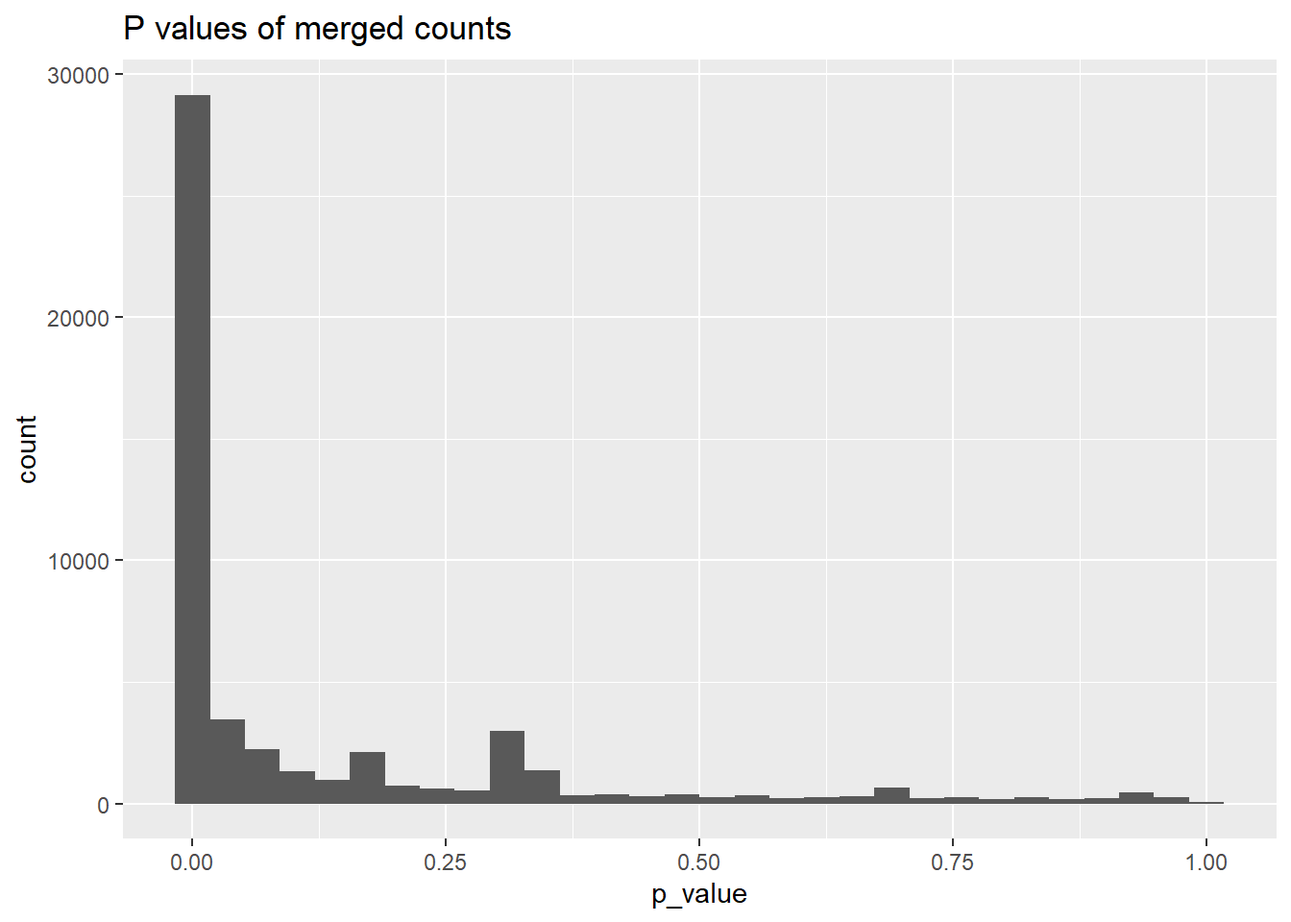
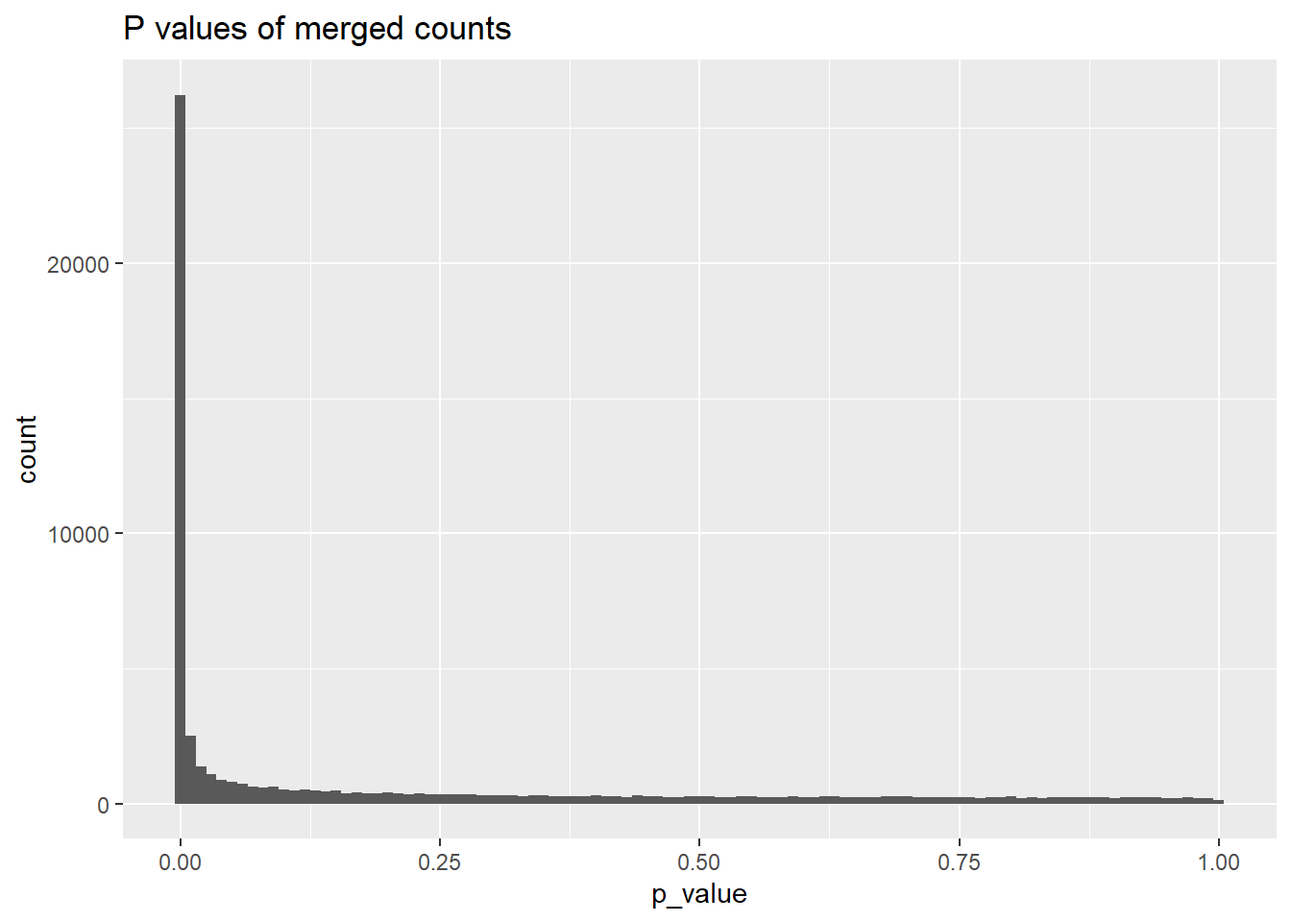
Built site for gh-pages

diff --git a/final.html b/final.html
@@ -108,8 +108,6 @@ pre > code.sourceCode > span > a:first-child::before { text-decoration: underlin
 <section id="running-code" class="level2">
 <h2 class="anchored" data-anchor-id="running-code">Running Code</h2>
 <p>When you click the <strong>Render</strong> button a document will be generated that includes both content and the output of embedded code. You can embed code like this:</p>
-<p>normal_counts &lt;- read_csv(“data/count_normal_comb_output.csv”) |&gt;</p>
-<p>pivot_longer(!GeneId, names_to = “SampleId”, values_to = “count”)</p>
 <div class="cell">
 <div class="sourceCode cell-code" id="cb1"><pre class="sourceCode r code-with-copy"><code class="sourceCode r"><span id="cb1-1"><a href="#cb1-1" aria-hidden="true" tabindex="-1"></a><span class="fu">library</span>(readr)</span>
 <span id="cb1-2"><a href="#cb1-2" aria-hidden="true" tabindex="-1"></a><span class="fu">library</span>(tidyverse)</span></code><button title="Copy to Clipboard" class="code-copy-button"><i class="bi"></i></button></pre></div>
@@ -128,7 +126,7 @@ pre > code.sourceCode > span > a:first-child::before { text-decoration: underlin
 <span id="cb3-2"><a href="#cb3-2" aria-hidden="true" tabindex="-1"></a></span>
 <span id="cb3-3"><a href="#cb3-3" aria-hidden="true" tabindex="-1"></a>normal_counts <span class="ot">&lt;-</span> <span class="fu">read_csv</span>(<span class="st">"data/count_normal_comb_output.csv"</span>) <span class="sc">|&gt;</span></span>
 <span id="cb3-4"><a href="#cb3-4" aria-hidden="true" tabindex="-1"></a>  <span class="fu">pivot_longer</span>(<span class="sc">!</span>GeneId, <span class="at">names_to =</span> <span class="st">"SampleId"</span>, <span class="at">values_to =</span> <span class="st">"count"</span>) <span class="sc">|&gt;</span></span>
-<span id="cb3-5"><a href="#cb3-5" aria-hidden="true" tabindex="-1"></a><span class="fu">mutate</span>(<span class="at">type =</span> <span class="st">"normal"</span>)</span></code><button title="Copy to Clipboard" class="code-copy-button"><i class="bi"></i></button></pre></div>
+<span id="cb3-5"><a href="#cb3-5" aria-hidden="true" tabindex="-1"></a>  <span class="fu">mutate</span>(<span class="at">type =</span> <span class="st">"normal"</span>, <span class="at">count =</span> count <span class="sc">+</span> <span class="fu">runif</span>(<span class="at">n =</span> <span class="fu">n</span>()))</span></code><button title="Copy to Clipboard" class="code-copy-button"><i class="bi"></i></button></pre></div>
 <div class="cell-output cell-output-stderr">
 <pre><code>Rows: 60664 Columns: 36
 ── Column specification ────────────────────────────────────────────────────────
@@ -141,7 +139,7 @@ dbl (35): Normal1, Normal2, Normal3, Normal4, Normal5, Normal6, Normal7, Nor...
 </div>
 <div class="sourceCode cell-code" id="cb5"><pre class="sourceCode r code-with-copy"><code class="sourceCode r"><span id="cb5-1"><a href="#cb5-1" aria-hidden="true" tabindex="-1"></a>cancer_counts <span class="ot">&lt;-</span> <span class="fu">read_csv</span>(<span class="st">"data/count_lncap_comb_output.csv"</span>) <span class="sc">|&gt;</span></span>
 <span id="cb5-2"><a href="#cb5-2" aria-hidden="true" tabindex="-1"></a>  <span class="fu">pivot_longer</span>(<span class="sc">!</span>GeneId, <span class="at">names_to =</span> <span class="st">"SampleId"</span>, <span class="at">values_to =</span> <span class="st">"count"</span>) <span class="sc">|&gt;</span></span>
-<span id="cb5-3"><a href="#cb5-3" aria-hidden="true" tabindex="-1"></a>  <span class="fu">mutate</span>(<span class="at">type =</span> <span class="st">"cancer"</span>)</span></code><button title="Copy to Clipboard" class="code-copy-button"><i class="bi"></i></button></pre></div>
+<span id="cb5-3"><a href="#cb5-3" aria-hidden="true" tabindex="-1"></a>  <span class="fu">mutate</span>(<span class="at">type =</span> <span class="st">"cancer"</span>, <span class="at">count =</span> count <span class="sc">+</span> <span class="fu">runif</span>(<span class="at">n =</span> <span class="fu">n</span>()))</span></code><button title="Copy to Clipboard" class="code-copy-button"><i class="bi"></i></button></pre></div>
 <div class="cell-output cell-output-stderr">
 <pre><code>Rows: 60664 Columns: 20
 ── Column specification ────────────────────────────────────────────────────────
@@ -153,12 +151,20 @@ dbl (19): SRR1, SRR2, SRR3, SRR4, SRR5, SRR6, SRR7, SRR8, SRR9, SRR10, SRR11...
 ℹ Specify the column types or set `show_col_types = FALSE` to quiet this message.</code></pre>
 </div>
 </div>
-<p>You can add options to executable code like this</p>
+<p>In the first part, we imported the cancer and normal counts on each genes. We added a pseudo counts on our observations to avoid dividing by zero, this does not impact our result on a large scale because the log fold of change would be very large if a gene is unregulated/down regulated.</p>
 <div class="cell">
-<div class="sourceCode cell-code" id="cb7"><pre class="sourceCode r code-with-copy"><code class="sourceCode r"><span id="cb7-1"><a href="#cb7-1" aria-hidden="true" tabindex="-1"></a>merged_counts <span class="ot">&lt;-</span> <span class="fu">bind_rows</span>(normal_counts, cancer_counts)</span>
-<span id="cb7-2"><a href="#cb7-2" aria-hidden="true" tabindex="-1"></a>merged_count_summary <span class="ot">&lt;-</span> merged_counts <span class="sc">|&gt;</span></span>
-<span id="cb7-3"><a href="#cb7-3" aria-hidden="true" tabindex="-1"></a>  <span class="fu">group_by</span>(GeneId, type) <span class="sc">|&gt;</span></span>
-<span id="cb7-4"><a href="#cb7-4" aria-hidden="true" tabindex="-1"></a>  <span class="fu">summarise</span>(<span class="at">mean_count =</span> <span class="fu">mean</span>(count), <span class="at">standard_dev_count =</span> <span class="fu">sd</span>(count), <span class="at">min_count =</span> <span class="fu">min</span>(count), <span class="at">mx_count =</span> <span class="fu">max</span>(count))</span></code><button title="Copy to Clipboard" class="code-copy-button"><i class="bi"></i></button></pre></div>
+<div class="sourceCode cell-code" id="cb7"><pre class="sourceCode r code-with-copy"><code class="sourceCode r"><span id="cb7-1"><a href="#cb7-1" aria-hidden="true" tabindex="-1"></a>cancer_summary <span class="ot">&lt;-</span> cancer_counts <span class="sc">|&gt;</span></span>
+<span id="cb7-2"><a href="#cb7-2" aria-hidden="true" tabindex="-1"></a>  <span class="fu">group_by</span>(GeneId) <span class="sc">|&gt;</span></span>
+<span id="cb7-3"><a href="#cb7-3" aria-hidden="true" tabindex="-1"></a>  <span class="fu">summarise</span>(<span class="at">cancer_mean_count =</span> <span class="fu">mean</span>(count))</span>
+<span id="cb7-4"><a href="#cb7-4" aria-hidden="true" tabindex="-1"></a></span>
+<span id="cb7-5"><a href="#cb7-5" aria-hidden="true" tabindex="-1"></a>normal_summary <span class="ot">&lt;-</span> normal_counts <span class="sc">|&gt;</span></span>
+<span id="cb7-6"><a href="#cb7-6" aria-hidden="true" tabindex="-1"></a>  <span class="fu">group_by</span>(GeneId) <span class="sc">|&gt;</span></span>
+<span id="cb7-7"><a href="#cb7-7" aria-hidden="true" tabindex="-1"></a>  <span class="fu">summarise</span>(<span class="at">normal_mean_count =</span> <span class="fu">mean</span>(count))</span>
+<span id="cb7-8"><a href="#cb7-8" aria-hidden="true" tabindex="-1"></a></span>
+<span id="cb7-9"><a href="#cb7-9" aria-hidden="true" tabindex="-1"></a>merged_counts <span class="ot">&lt;-</span> <span class="fu">bind_rows</span>(normal_counts, cancer_counts)</span>
+<span id="cb7-10"><a href="#cb7-10" aria-hidden="true" tabindex="-1"></a>merged_count_summary <span class="ot">&lt;-</span> merged_counts <span class="sc">|&gt;</span></span>
+<span id="cb7-11"><a href="#cb7-11" aria-hidden="true" tabindex="-1"></a>  <span class="fu">group_by</span>(GeneId, type) <span class="sc">|&gt;</span></span>
+<span id="cb7-12"><a href="#cb7-12" aria-hidden="true" tabindex="-1"></a>  <span class="fu">summarise</span>(<span class="at">mean_count =</span> <span class="fu">mean</span>(count), <span class="at">standard_dev_count =</span> <span class="fu">sd</span>(count), <span class="at">min_count =</span> <span class="fu">min</span>(count), <span class="at">mx_count =</span> <span class="fu">max</span>(count))</span></code><button title="Copy to Clipboard" class="code-copy-button"><i class="bi"></i></button></pre></div>
 <div class="cell-output cell-output-stderr">
 <pre><code>`summarise()` has grouped output by 'GeneId'. You can override using the
 `.groups` argument.</code></pre>
@@ -175,17 +181,55 @@ dbl (19): SRR1, SRR2, SRR3, SRR4, SRR5, SRR6, SRR7, SRR8, SRR9, SRR10, SRR11...
 <span id="cb10-2"><a href="#cb10-2" aria-hidden="true" tabindex="-1"></a>p_values_data_frame <span class="ot">&lt;-</span> <span class="fu">data.frame</span>(<span class="at">p_value =</span> p_values)</span>
 <span id="cb10-3"><a href="#cb10-3" aria-hidden="true" tabindex="-1"></a></span>
 <span id="cb10-4"><a href="#cb10-4" aria-hidden="true" tabindex="-1"></a><span class="fu">ggplot</span>(<span class="at">data =</span> p_values_data_frame, <span class="fu">aes</span>(<span class="at">x =</span> p_value)) <span class="sc">+</span></span>
-<span id="cb10-5"><a href="#cb10-5" aria-hidden="true" tabindex="-1"></a>  <span class="fu">geom_histogram</span>(<span class="at">bins =</span> <span class="dv">30</span>) <span class="sc">+</span></span>
+<span id="cb10-5"><a href="#cb10-5" aria-hidden="true" tabindex="-1"></a>  <span class="fu">geom_histogram</span>(<span class="at">binwidth =</span> <span class="fl">0.01</span>) <span class="sc">+</span></span>
 <span id="cb10-6"><a href="#cb10-6" aria-hidden="true" tabindex="-1"></a>  <span class="fu">labs</span>(</span>
 <span id="cb10-7"><a href="#cb10-7" aria-hidden="true" tabindex="-1"></a>    <span class="at">title =</span> <span class="st">"P values of merged counts"</span>,</span>
 <span id="cb10-8"><a href="#cb10-8" aria-hidden="true" tabindex="-1"></a>    <span class="at">x =</span> <span class="st">"p_value"</span></span>
 <span id="cb10-9"><a href="#cb10-9" aria-hidden="true" tabindex="-1"></a>    )</span></code><button title="Copy to Clipboard" class="code-copy-button"><i class="bi"></i></button></pre></div>
-<div class="cell-output cell-output-stderr">
-<pre><code>Warning: Removed 9662 rows containing non-finite values (`stat_bin()`).</code></pre>
-</div>
 <div class="cell-output-display">
 <p><img src="final_files/figure-html/pval-1.png" class="img-fluid" width="672"></p>
 </div>
+</div>
+<div class="cell">
+<div class="sourceCode cell-code" id="cb11"><pre class="sourceCode r code-with-copy"><code class="sourceCode r"><span id="cb11-1"><a href="#cb11-1" aria-hidden="true" tabindex="-1"></a>combine_counts_summary <span class="ot">&lt;-</span> cancer_summary <span class="sc">|&gt;</span></span>
+<span id="cb11-2"><a href="#cb11-2" aria-hidden="true" tabindex="-1"></a>  <span class="fu">left_join</span>(normal_summary) <span class="sc">|&gt;</span></span>
+<span id="cb11-3"><a href="#cb11-3" aria-hidden="true" tabindex="-1"></a>  <span class="fu">mutate</span>(<span class="at">log_fold_of_change =</span> <span class="fu">log10</span>(cancer_mean_count <span class="sc">/</span> normal_mean_count)) <span class="sc">|&gt;</span></span>
+<span id="cb11-4"><a href="#cb11-4" aria-hidden="true" tabindex="-1"></a>  <span class="fu">mutate</span>(<span class="at">corrected_pvals =</span> <span class="fu">p.adjust</span>(p_values, <span class="at">method=</span><span class="st">"BH"</span>)) <span class="sc">|&gt;</span></span>
+<span id="cb11-5"><a href="#cb11-5" aria-hidden="true" tabindex="-1"></a>  <span class="fu">mutate</span>(<span class="at">log_of_pvals =</span> <span class="fu">log10</span>(corrected_pvals)) <span class="sc">|&gt;</span></span>
+<span id="cb11-6"><a href="#cb11-6" aria-hidden="true" tabindex="-1"></a>  <span class="fu">mutate</span>(<span class="at">selected =</span> log_of_pvals <span class="sc">&lt;</span> <span class="sc">-</span><span class="fl">10.25</span> <span class="sc">&amp;</span> log_fold_of_change <span class="sc">&gt;</span> <span class="dv">2</span>)</span></code><button title="Copy to Clipboard" class="code-copy-button"><i class="bi"></i></button></pre></div>
+<div class="cell-output cell-output-stderr">
+<pre><code>Joining with `by = join_by(GeneId)`</code></pre>
+</div>
+<div class="sourceCode cell-code" id="cb13"><pre class="sourceCode r code-with-copy"><code class="sourceCode r"><span id="cb13-1"><a href="#cb13-1" aria-hidden="true" tabindex="-1"></a>  <span class="fu">ggplot</span>(<span class="at">data =</span> combine_counts_summary, <span class="fu">aes</span>(<span class="at">x =</span> log_fold_of_change, <span class="at">y =</span>  <span class="sc">-</span>log_of_pvals, <span class="at">color =</span> selected)) <span class="sc">+</span> <span class="fu">geom_point</span>() <span class="sc">+</span> </span>
+<span id="cb13-2"><a href="#cb13-2" aria-hidden="true" tabindex="-1"></a>  <span class="fu">geom_vline</span>(<span class="at">xintercept =</span> <span class="dv">2</span>, <span class="at">linetype =</span> <span class="st">"dashed"</span>) <span class="sc">+</span> <span class="fu">geom_hline</span>(<span class="at">yintercept =</span> <span class="fl">10.25</span>, <span class="at">linetype =</span> <span class="st">"dashed"</span>) <span class="sc">+</span></span>
+<span id="cb13-3"><a href="#cb13-3" aria-hidden="true" tabindex="-1"></a>  <span class="fu">guides</span>(<span class="at">color =</span> <span class="st">"none"</span>)</span></code><button title="Copy to Clipboard" class="code-copy-button"><i class="bi"></i></button></pre></div>
+<div class="cell-output-display">
+<p><img src="final_files/figure-html/volcano_plot-1.png" class="img-fluid" width="672"></p>
+</div>
+</div>
+<div class="cell">
+<div class="sourceCode cell-code" id="cb14"><pre class="sourceCode r code-with-copy"><code class="sourceCode r"><span id="cb14-1"><a href="#cb14-1" aria-hidden="true" tabindex="-1"></a>gene_functions <span class="ot">&lt;-</span> <span class="fu">read_csv</span>(<span class="st">"data/gene_function.csv"</span>) <span class="sc">|&gt;</span></span>
+<span id="cb14-2"><a href="#cb14-2" aria-hidden="true" tabindex="-1"></a>  <span class="fu">rename</span>(<span class="at">GeneId =</span> GENE_ID)</span></code><button title="Copy to Clipboard" class="code-copy-button"><i class="bi"></i></button></pre></div>
+<div class="cell-output cell-output-stderr">
+<pre><code>Rows: 60664 Columns: 3
+── Column specification ────────────────────────────────────────────────────────
+Delimiter: ","
+chr (3): GENE_ID, GENE_NAME, GENE_FUNCTION
+
+ℹ Use `spec()` to retrieve the full column specification for this data.
+ℹ Specify the column types or set `show_col_types = FALSE` to quiet this message.</code></pre>
+</div>
+<div class="sourceCode cell-code" id="cb16"><pre class="sourceCode r code-with-copy"><code class="sourceCode r"><span id="cb16-1"><a href="#cb16-1" aria-hidden="true" tabindex="-1"></a>named_counts_summary <span class="ot">&lt;-</span> combine_counts_summary <span class="sc">|&gt;</span></span>
+<span id="cb16-2"><a href="#cb16-2" aria-hidden="true" tabindex="-1"></a>  <span class="fu">left_join</span>(gene_functions)</span></code><button title="Copy to Clipboard" class="code-copy-button"><i class="bi"></i></button></pre></div>
+<div class="cell-output cell-output-stderr">
+<pre><code>Joining with `by = join_by(GeneId)`</code></pre>
+</div>
+</div>
+<div class="cell">
+<div class="sourceCode cell-code" id="cb18"><pre class="sourceCode r code-with-copy"><code class="sourceCode r"><span id="cb18-1"><a href="#cb18-1" aria-hidden="true" tabindex="-1"></a>filtered <span class="ot">&lt;-</span> <span class="fu">filter</span>(named_counts_summary, log_of_pvals <span class="sc">&lt;</span> <span class="sc">-</span><span class="fl">10.25</span>, log_fold_of_change <span class="sc">&gt;</span> <span class="dv">2</span>) </span></code><button title="Copy to Clipboard" class="code-copy-button"><i class="bi"></i></button></pre></div>
+</div>
+<div class="cell">
+<div class="sourceCode cell-code" id="cb19"><pre class="sourceCode r code-with-copy"><code class="sourceCode r"><span id="cb19-1"><a href="#cb19-1" aria-hidden="true" tabindex="-1"></a>search <span class="ot">&lt;-</span> <span class="fu">filter</span>(named_counts_summary, GENE_NAME <span class="sc">==</span> <span class="st">"FAM72A"</span> <span class="sc">|</span> GENE_NAME <span class="sc">==</span> <span class="st">"FAM72B"</span> <span class="sc">|</span> GENE_NAME <span class="sc">==</span> <span class="st">"FAM72C"</span> <span class="sc">|</span> GENE_NAME <span class="sc">==</span> <span class="st">"FAM72D"</span>)</span></code><button title="Copy to Clipboard" class="code-copy-button"><i class="bi"></i></button></pre></div>
 </div>
 </section>
 

diff --git a/index.html b/index.html
@@ -108,8 +108,6 @@ pre > code.sourceCode > span > a:first-child::before { text-decoration: underlin
 <section id="running-code" class="level2">
 <h2 class="anchored" data-anchor-id="running-code">Running Code</h2>
 <p>When you click the <strong>Render</strong> button a document will be generated that includes both content and the output of embedded code. You can embed code like this:</p>
-<p>normal_counts &lt;- read_csv(“data/count_normal_comb_output.csv”) |&gt;</p>
-<p>pivot_longer(!GeneId, names_to = “SampleId”, values_to = “count”)</p>
 <div class="cell">
 <div class="sourceCode cell-code" id="cb1"><pre class="sourceCode r code-with-copy"><code class="sourceCode r"><span id="cb1-1"><a href="#cb1-1" aria-hidden="true" tabindex="-1"></a><span class="fu">library</span>(readr)</span>
 <span id="cb1-2"><a href="#cb1-2" aria-hidden="true" tabindex="-1"></a><span class="fu">library</span>(tidyverse)</span></code><button title="Copy to Clipboard" class="code-copy-button"><i class="bi"></i></button></pre></div>
@@ -128,7 +126,7 @@ pre > code.sourceCode > span > a:first-child::before { text-decoration: underlin
 <span id="cb3-2"><a href="#cb3-2" aria-hidden="true" tabindex="-1"></a></span>
 <span id="cb3-3"><a href="#cb3-3" aria-hidden="true" tabindex="-1"></a>normal_counts <span class="ot">&lt;-</span> <span class="fu">read_csv</span>(<span class="st">"data/count_normal_comb_output.csv"</span>) <span class="sc">|&gt;</span></span>
 <span id="cb3-4"><a href="#cb3-4" aria-hidden="true" tabindex="-1"></a>  <span class="fu">pivot_longer</span>(<span class="sc">!</span>GeneId, <span class="at">names_to =</span> <span class="st">"SampleId"</span>, <span class="at">values_to =</span> <span class="st">"count"</span>) <span class="sc">|&gt;</span></span>
-<span id="cb3-5"><a href="#cb3-5" aria-hidden="true" tabindex="-1"></a><span class="fu">mutate</span>(<span class="at">type =</span> <span class="st">"normal"</span>)</span></code><button title="Copy to Clipboard" class="code-copy-button"><i class="bi"></i></button></pre></div>
+<span id="cb3-5"><a href="#cb3-5" aria-hidden="true" tabindex="-1"></a>  <span class="fu">mutate</span>(<span class="at">type =</span> <span class="st">"normal"</span>, <span class="at">count =</span> count <span class="sc">+</span> <span class="fu">runif</span>(<span class="at">n =</span> <span class="fu">n</span>()))</span></code><button title="Copy to Clipboard" class="code-copy-button"><i class="bi"></i></button></pre></div>
 <div class="cell-output cell-output-stderr">
 <pre><code>Rows: 60664 Columns: 36
 ── Column specification ────────────────────────────────────────────────────────
@@ -141,7 +139,7 @@ dbl (35): Normal1, Normal2, Normal3, Normal4, Normal5, Normal6, Normal7, Nor...
 </div>
 <div class="sourceCode cell-code" id="cb5"><pre class="sourceCode r code-with-copy"><code class="sourceCode r"><span id="cb5-1"><a href="#cb5-1" aria-hidden="true" tabindex="-1"></a>cancer_counts <span class="ot">&lt;-</span> <span class="fu">read_csv</span>(<span class="st">"data/count_lncap_comb_output.csv"</span>) <span class="sc">|&gt;</span></span>
 <span id="cb5-2"><a href="#cb5-2" aria-hidden="true" tabindex="-1"></a>  <span class="fu">pivot_longer</span>(<span class="sc">!</span>GeneId, <span class="at">names_to =</span> <span class="st">"SampleId"</span>, <span class="at">values_to =</span> <span class="st">"count"</span>) <span class="sc">|&gt;</span></span>
-<span id="cb5-3"><a href="#cb5-3" aria-hidden="true" tabindex="-1"></a>  <span class="fu">mutate</span>(<span class="at">type =</span> <span class="st">"cancer"</span>)</span></code><button title="Copy to Clipboard" class="code-copy-button"><i class="bi"></i></button></pre></div>
+<span id="cb5-3"><a href="#cb5-3" aria-hidden="true" tabindex="-1"></a>  <span class="fu">mutate</span>(<span class="at">type =</span> <span class="st">"cancer"</span>, <span class="at">count =</span> count <span class="sc">+</span> <span class="fu">runif</span>(<span class="at">n =</span> <span class="fu">n</span>()))</span></code><button title="Copy to Clipboard" class="code-copy-button"><i class="bi"></i></button></pre></div>
 <div class="cell-output cell-output-stderr">
 <pre><code>Rows: 60664 Columns: 20
 ── Column specification ────────────────────────────────────────────────────────
@@ -153,12 +151,20 @@ dbl (19): SRR1, SRR2, SRR3, SRR4, SRR5, SRR6, SRR7, SRR8, SRR9, SRR10, SRR11...
 ℹ Specify the column types or set `show_col_types = FALSE` to quiet this message.</code></pre>
 </div>
 </div>
-<p>You can add options to executable code like this</p>
+<p>In the first part, we imported the cancer and normal counts on each genes. We added a pseudo counts on our observations to avoid dividing by zero, this does not impact our result on a large scale because the log fold of change would be very large if a gene is unregulated/down regulated.</p>
 <div class="cell">
-<div class="sourceCode cell-code" id="cb7"><pre class="sourceCode r code-with-copy"><code class="sourceCode r"><span id="cb7-1"><a href="#cb7-1" aria-hidden="true" tabindex="-1"></a>merged_counts <span class="ot">&lt;-</span> <span class="fu">bind_rows</span>(normal_counts, cancer_counts)</span>
-<span id="cb7-2"><a href="#cb7-2" aria-hidden="true" tabindex="-1"></a>merged_count_summary <span class="ot">&lt;-</span> merged_counts <span class="sc">|&gt;</span></span>
-<span id="cb7-3"><a href="#cb7-3" aria-hidden="true" tabindex="-1"></a>  <span class="fu">group_by</span>(GeneId, type) <span class="sc">|&gt;</span></span>
-<span id="cb7-4"><a href="#cb7-4" aria-hidden="true" tabindex="-1"></a>  <span class="fu">summarise</span>(<span class="at">mean_count =</span> <span class="fu">mean</span>(count), <span class="at">standard_dev_count =</span> <span class="fu">sd</span>(count), <span class="at">min_count =</span> <span class="fu">min</span>(count), <span class="at">mx_count =</span> <span class="fu">max</span>(count))</span></code><button title="Copy to Clipboard" class="code-copy-button"><i class="bi"></i></button></pre></div>
+<div class="sourceCode cell-code" id="cb7"><pre class="sourceCode r code-with-copy"><code class="sourceCode r"><span id="cb7-1"><a href="#cb7-1" aria-hidden="true" tabindex="-1"></a>cancer_summary <span class="ot">&lt;-</span> cancer_counts <span class="sc">|&gt;</span></span>
+<span id="cb7-2"><a href="#cb7-2" aria-hidden="true" tabindex="-1"></a>  <span class="fu">group_by</span>(GeneId) <span class="sc">|&gt;</span></span>
+<span id="cb7-3"><a href="#cb7-3" aria-hidden="true" tabindex="-1"></a>  <span class="fu">summarise</span>(<span class="at">cancer_mean_count =</span> <span class="fu">mean</span>(count))</span>
+<span id="cb7-4"><a href="#cb7-4" aria-hidden="true" tabindex="-1"></a></span>
+<span id="cb7-5"><a href="#cb7-5" aria-hidden="true" tabindex="-1"></a>normal_summary <span class="ot">&lt;-</span> normal_counts <span class="sc">|&gt;</span></span>
+<span id="cb7-6"><a href="#cb7-6" aria-hidden="true" tabindex="-1"></a>  <span class="fu">group_by</span>(GeneId) <span class="sc">|&gt;</span></span>
+<span id="cb7-7"><a href="#cb7-7" aria-hidden="true" tabindex="-1"></a>  <span class="fu">summarise</span>(<span class="at">normal_mean_count =</span> <span class="fu">mean</span>(count))</span>
+<span id="cb7-8"><a href="#cb7-8" aria-hidden="true" tabindex="-1"></a></span>
+<span id="cb7-9"><a href="#cb7-9" aria-hidden="true" tabindex="-1"></a>merged_counts <span class="ot">&lt;-</span> <span class="fu">bind_rows</span>(normal_counts, cancer_counts)</span>
+<span id="cb7-10"><a href="#cb7-10" aria-hidden="true" tabindex="-1"></a>merged_count_summary <span class="ot">&lt;-</span> merged_counts <span class="sc">|&gt;</span></span>
+<span id="cb7-11"><a href="#cb7-11" aria-hidden="true" tabindex="-1"></a>  <span class="fu">group_by</span>(GeneId, type) <span class="sc">|&gt;</span></span>
+<span id="cb7-12"><a href="#cb7-12" aria-hidden="true" tabindex="-1"></a>  <span class="fu">summarise</span>(<span class="at">mean_count =</span> <span class="fu">mean</span>(count), <span class="at">standard_dev_count =</span> <span class="fu">sd</span>(count), <span class="at">min_count =</span> <span class="fu">min</span>(count), <span class="at">mx_count =</span> <span class="fu">max</span>(count))</span></code><button title="Copy to Clipboard" class="code-copy-button"><i class="bi"></i></button></pre></div>
 <div class="cell-output cell-output-stderr">
 <pre><code>`summarise()` has grouped output by 'GeneId'. You can override using the
 `.groups` argument.</code></pre>
@@ -175,17 +181,55 @@ dbl (19): SRR1, SRR2, SRR3, SRR4, SRR5, SRR6, SRR7, SRR8, SRR9, SRR10, SRR11...
 <span id="cb10-2"><a href="#cb10-2" aria-hidden="true" tabindex="-1"></a>p_values_data_frame <span class="ot">&lt;-</span> <span class="fu">data.frame</span>(<span class="at">p_value =</span> p_values)</span>
 <span id="cb10-3"><a href="#cb10-3" aria-hidden="true" tabindex="-1"></a></span>
 <span id="cb10-4"><a href="#cb10-4" aria-hidden="true" tabindex="-1"></a><span class="fu">ggplot</span>(<span class="at">data =</span> p_values_data_frame, <span class="fu">aes</span>(<span class="at">x =</span> p_value)) <span class="sc">+</span></span>
-<span id="cb10-5"><a href="#cb10-5" aria-hidden="true" tabindex="-1"></a>  <span class="fu">geom_histogram</span>(<span class="at">bins =</span> <span class="dv">30</span>) <span class="sc">+</span></span>
+<span id="cb10-5"><a href="#cb10-5" aria-hidden="true" tabindex="-1"></a>  <span class="fu">geom_histogram</span>(<span class="at">binwidth =</span> <span class="fl">0.01</span>) <span class="sc">+</span></span>
 <span id="cb10-6"><a href="#cb10-6" aria-hidden="true" tabindex="-1"></a>  <span class="fu">labs</span>(</span>
 <span id="cb10-7"><a href="#cb10-7" aria-hidden="true" tabindex="-1"></a>    <span class="at">title =</span> <span class="st">"P values of merged counts"</span>,</span>
 <span id="cb10-8"><a href="#cb10-8" aria-hidden="true" tabindex="-1"></a>    <span class="at">x =</span> <span class="st">"p_value"</span></span>
 <span id="cb10-9"><a href="#cb10-9" aria-hidden="true" tabindex="-1"></a>    )</span></code><button title="Copy to Clipboard" class="code-copy-button"><i class="bi"></i></button></pre></div>
-<div class="cell-output cell-output-stderr">
-<pre><code>Warning: Removed 9662 rows containing non-finite values (`stat_bin()`).</code></pre>
-</div>
 <div class="cell-output-display">
 <p><img src="final_files/figure-html/pval-1.png" class="img-fluid" width="672"></p>
 </div>
+</div>
+<div class="cell">
+<div class="sourceCode cell-code" id="cb11"><pre class="sourceCode r code-with-copy"><code class="sourceCode r"><span id="cb11-1"><a href="#cb11-1" aria-hidden="true" tabindex="-1"></a>combine_counts_summary <span class="ot">&lt;-</span> cancer_summary <span class="sc">|&gt;</span></span>
+<span id="cb11-2"><a href="#cb11-2" aria-hidden="true" tabindex="-1"></a>  <span class="fu">left_join</span>(normal_summary) <span class="sc">|&gt;</span></span>
+<span id="cb11-3"><a href="#cb11-3" aria-hidden="true" tabindex="-1"></a>  <span class="fu">mutate</span>(<span class="at">log_fold_of_change =</span> <span class="fu">log10</span>(cancer_mean_count <span class="sc">/</span> normal_mean_count)) <span class="sc">|&gt;</span></span>
+<span id="cb11-4"><a href="#cb11-4" aria-hidden="true" tabindex="-1"></a>  <span class="fu">mutate</span>(<span class="at">corrected_pvals =</span> <span class="fu">p.adjust</span>(p_values, <span class="at">method=</span><span class="st">"BH"</span>)) <span class="sc">|&gt;</span></span>
+<span id="cb11-5"><a href="#cb11-5" aria-hidden="true" tabindex="-1"></a>  <span class="fu">mutate</span>(<span class="at">log_of_pvals =</span> <span class="fu">log10</span>(corrected_pvals)) <span class="sc">|&gt;</span></span>
+<span id="cb11-6"><a href="#cb11-6" aria-hidden="true" tabindex="-1"></a>  <span class="fu">mutate</span>(<span class="at">selected =</span> log_of_pvals <span class="sc">&lt;</span> <span class="sc">-</span><span class="fl">10.25</span> <span class="sc">&amp;</span> log_fold_of_change <span class="sc">&gt;</span> <span class="dv">2</span>)</span></code><button title="Copy to Clipboard" class="code-copy-button"><i class="bi"></i></button></pre></div>
+<div class="cell-output cell-output-stderr">
+<pre><code>Joining with `by = join_by(GeneId)`</code></pre>
+</div>
+<div class="sourceCode cell-code" id="cb13"><pre class="sourceCode r code-with-copy"><code class="sourceCode r"><span id="cb13-1"><a href="#cb13-1" aria-hidden="true" tabindex="-1"></a>  <span class="fu">ggplot</span>(<span class="at">data =</span> combine_counts_summary, <span class="fu">aes</span>(<span class="at">x =</span> log_fold_of_change, <span class="at">y =</span>  <span class="sc">-</span>log_of_pvals, <span class="at">color =</span> selected)) <span class="sc">+</span> <span class="fu">geom_point</span>() <span class="sc">+</span> </span>
+<span id="cb13-2"><a href="#cb13-2" aria-hidden="true" tabindex="-1"></a>  <span class="fu">geom_vline</span>(<span class="at">xintercept =</span> <span class="dv">2</span>, <span class="at">linetype =</span> <span class="st">"dashed"</span>) <span class="sc">+</span> <span class="fu">geom_hline</span>(<span class="at">yintercept =</span> <span class="fl">10.25</span>, <span class="at">linetype =</span> <span class="st">"dashed"</span>) <span class="sc">+</span></span>
+<span id="cb13-3"><a href="#cb13-3" aria-hidden="true" tabindex="-1"></a>  <span class="fu">guides</span>(<span class="at">color =</span> <span class="st">"none"</span>)</span></code><button title="Copy to Clipboard" class="code-copy-button"><i class="bi"></i></button></pre></div>
+<div class="cell-output-display">
+<p><img src="final_files/figure-html/volcano_plot-1.png" class="img-fluid" width="672"></p>
+</div>
+</div>
+<div class="cell">
+<div class="sourceCode cell-code" id="cb14"><pre class="sourceCode r code-with-copy"><code class="sourceCode r"><span id="cb14-1"><a href="#cb14-1" aria-hidden="true" tabindex="-1"></a>gene_functions <span class="ot">&lt;-</span> <span class="fu">read_csv</span>(<span class="st">"data/gene_function.csv"</span>) <span class="sc">|&gt;</span></span>
+<span id="cb14-2"><a href="#cb14-2" aria-hidden="true" tabindex="-1"></a>  <span class="fu">rename</span>(<span class="at">GeneId =</span> GENE_ID)</span></code><button title="Copy to Clipboard" class="code-copy-button"><i class="bi"></i></button></pre></div>
+<div class="cell-output cell-output-stderr">
+<pre><code>Rows: 60664 Columns: 3
+── Column specification ────────────────────────────────────────────────────────
+Delimiter: ","
+chr (3): GENE_ID, GENE_NAME, GENE_FUNCTION
+
+ℹ Use `spec()` to retrieve the full column specification for this data.
+ℹ Specify the column types or set `show_col_types = FALSE` to quiet this message.</code></pre>
+</div>
+<div class="sourceCode cell-code" id="cb16"><pre class="sourceCode r code-with-copy"><code class="sourceCode r"><span id="cb16-1"><a href="#cb16-1" aria-hidden="true" tabindex="-1"></a>named_counts_summary <span class="ot">&lt;-</span> combine_counts_summary <span class="sc">|&gt;</span></span>
+<span id="cb16-2"><a href="#cb16-2" aria-hidden="true" tabindex="-1"></a>  <span class="fu">left_join</span>(gene_functions)</span></code><button title="Copy to Clipboard" class="code-copy-button"><i class="bi"></i></button></pre></div>
+<div class="cell-output cell-output-stderr">
+<pre><code>Joining with `by = join_by(GeneId)`</code></pre>
+</div>
+</div>
+<div class="cell">
+<div class="sourceCode cell-code" id="cb18"><pre class="sourceCode r code-with-copy"><code class="sourceCode r"><span id="cb18-1"><a href="#cb18-1" aria-hidden="true" tabindex="-1"></a>filtered <span class="ot">&lt;-</span> <span class="fu">filter</span>(named_counts_summary, log_of_pvals <span class="sc">&lt;</span> <span class="sc">-</span><span class="fl">10.25</span>, log_fold_of_change <span class="sc">&gt;</span> <span class="dv">2</span>) </span></code><button title="Copy to Clipboard" class="code-copy-button"><i class="bi"></i></button></pre></div>
+</div>
+<div class="cell">
+<div class="sourceCode cell-code" id="cb19"><pre class="sourceCode r code-with-copy"><code class="sourceCode r"><span id="cb19-1"><a href="#cb19-1" aria-hidden="true" tabindex="-1"></a>search <span class="ot">&lt;-</span> <span class="fu">filter</span>(named_counts_summary, GENE_NAME <span class="sc">==</span> <span class="st">"FAM72A"</span> <span class="sc">|</span> GENE_NAME <span class="sc">==</span> <span class="st">"FAM72B"</span> <span class="sc">|</span> GENE_NAME <span class="sc">==</span> <span class="st">"FAM72C"</span> <span class="sc">|</span> GENE_NAME <span class="sc">==</span> <span class="st">"FAM72D"</span>)</span></code><button title="Copy to Clipboard" class="code-copy-button"><i class="bi"></i></button></pre></div>
 </div>
 </section>
 
